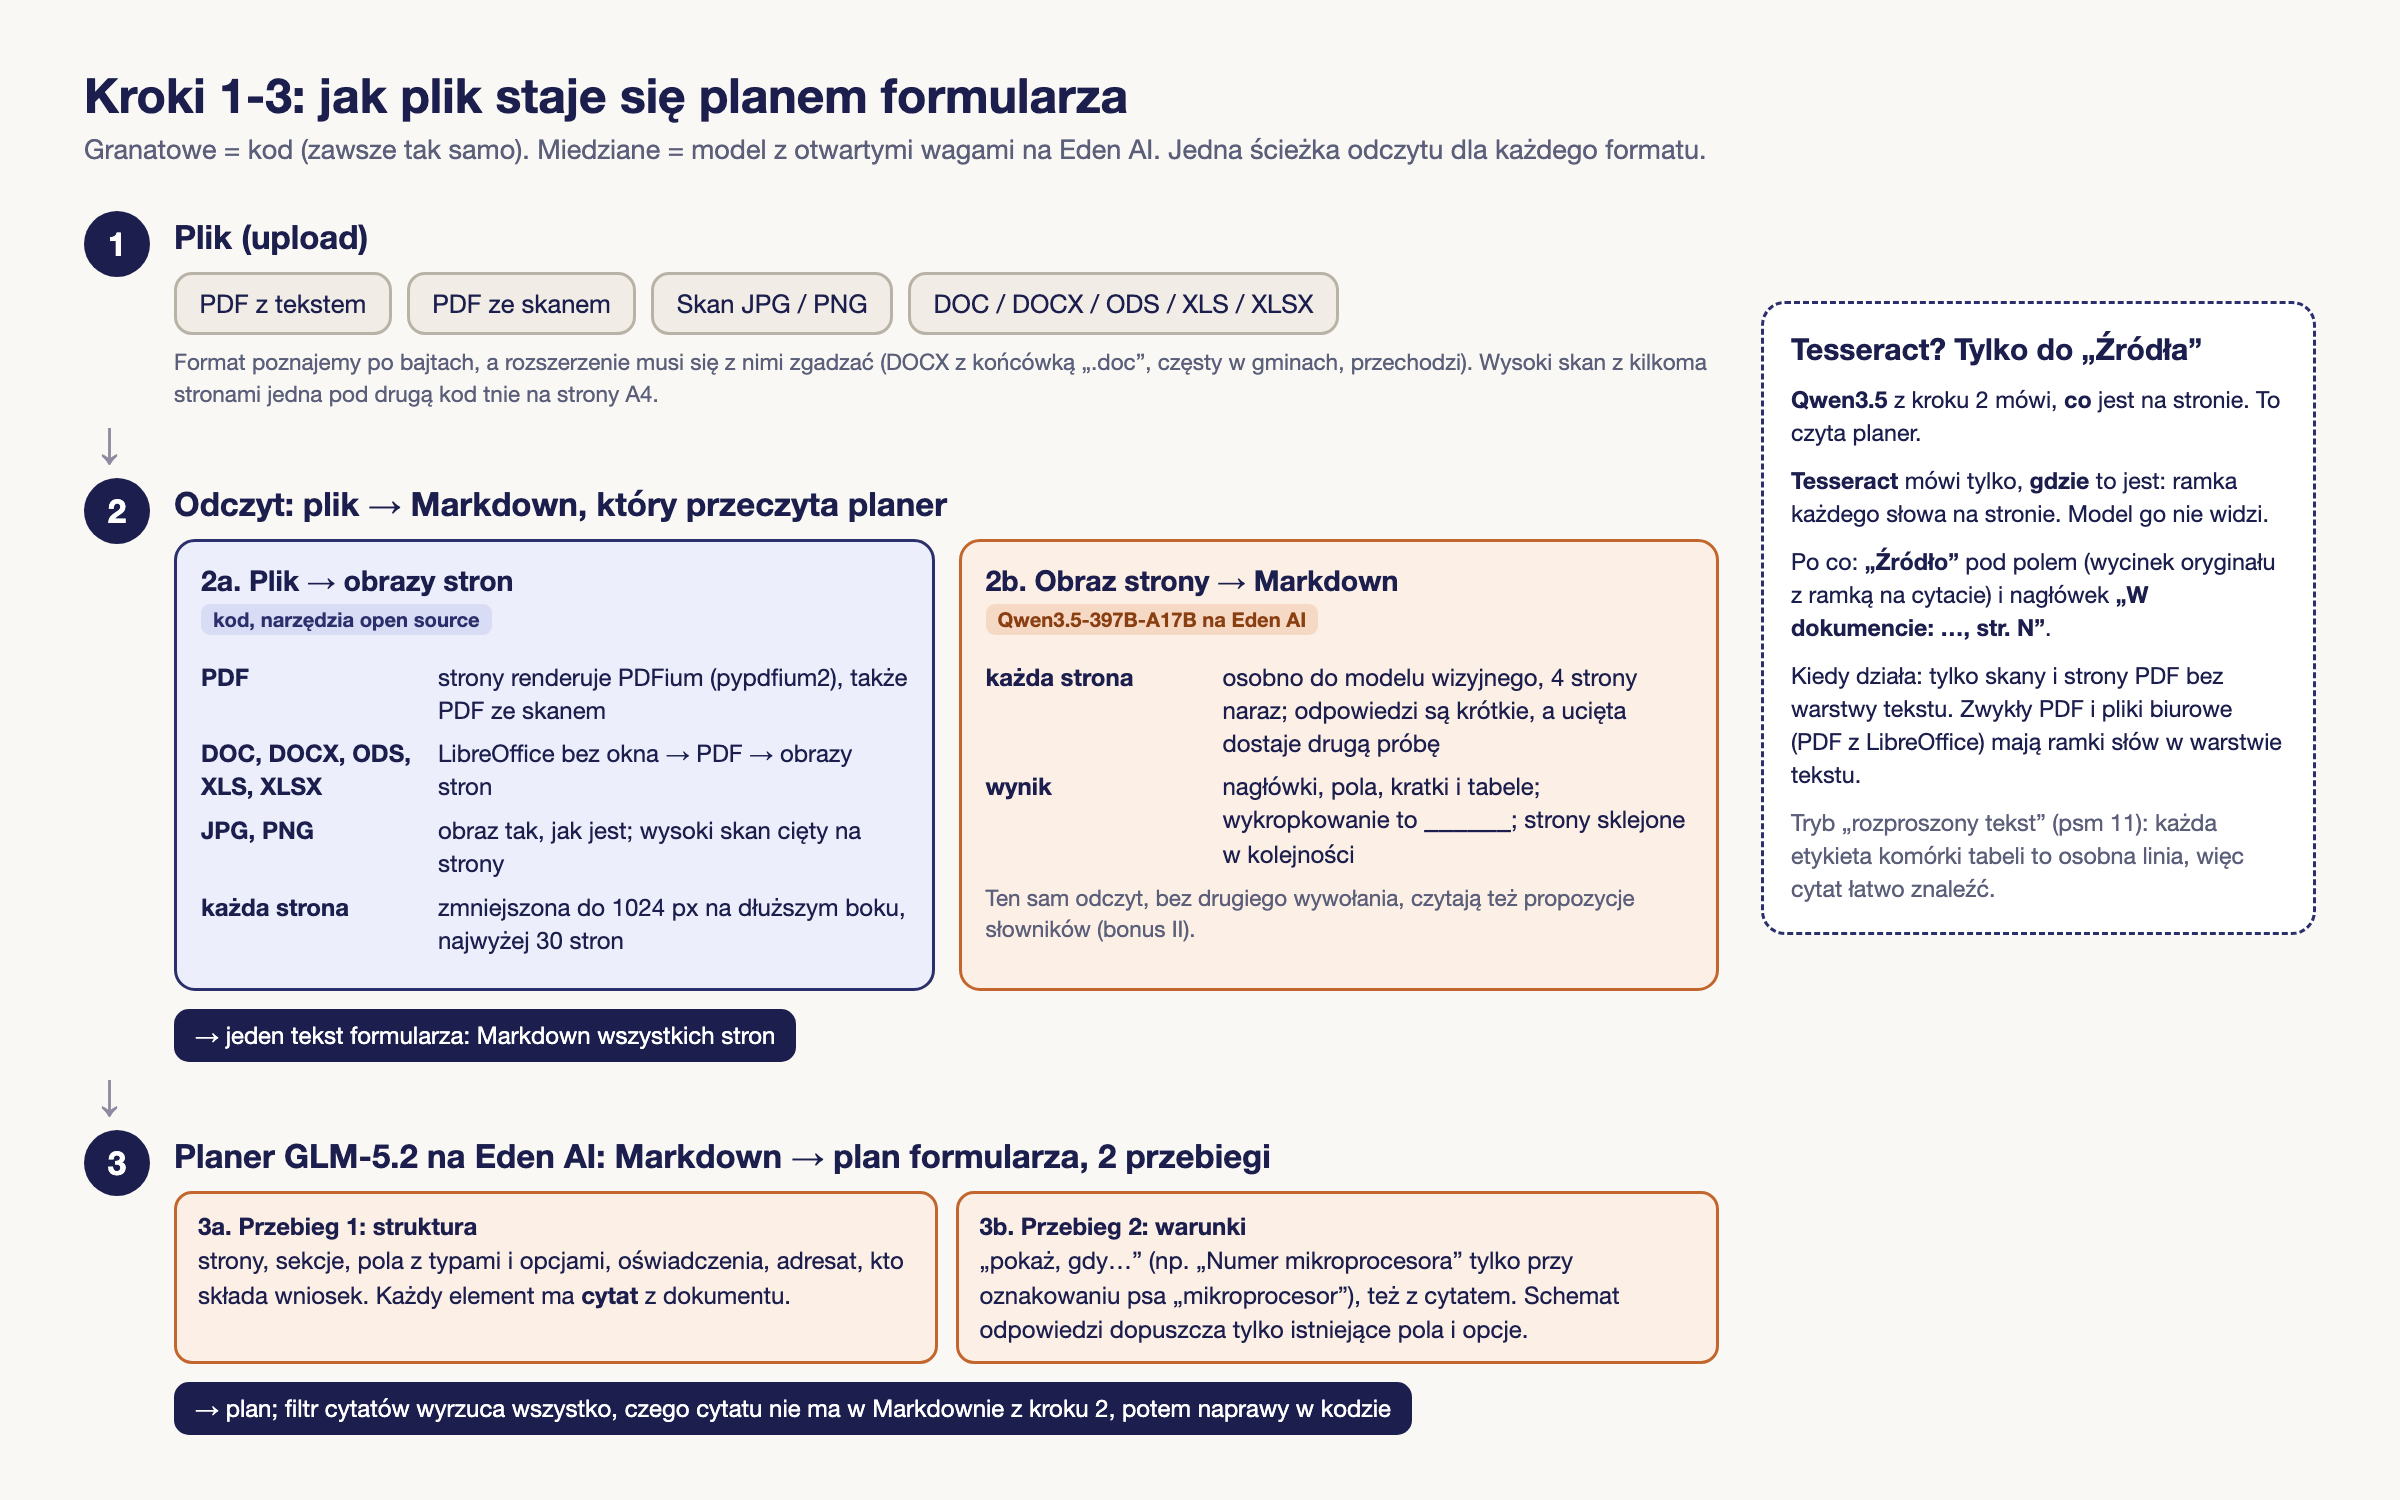
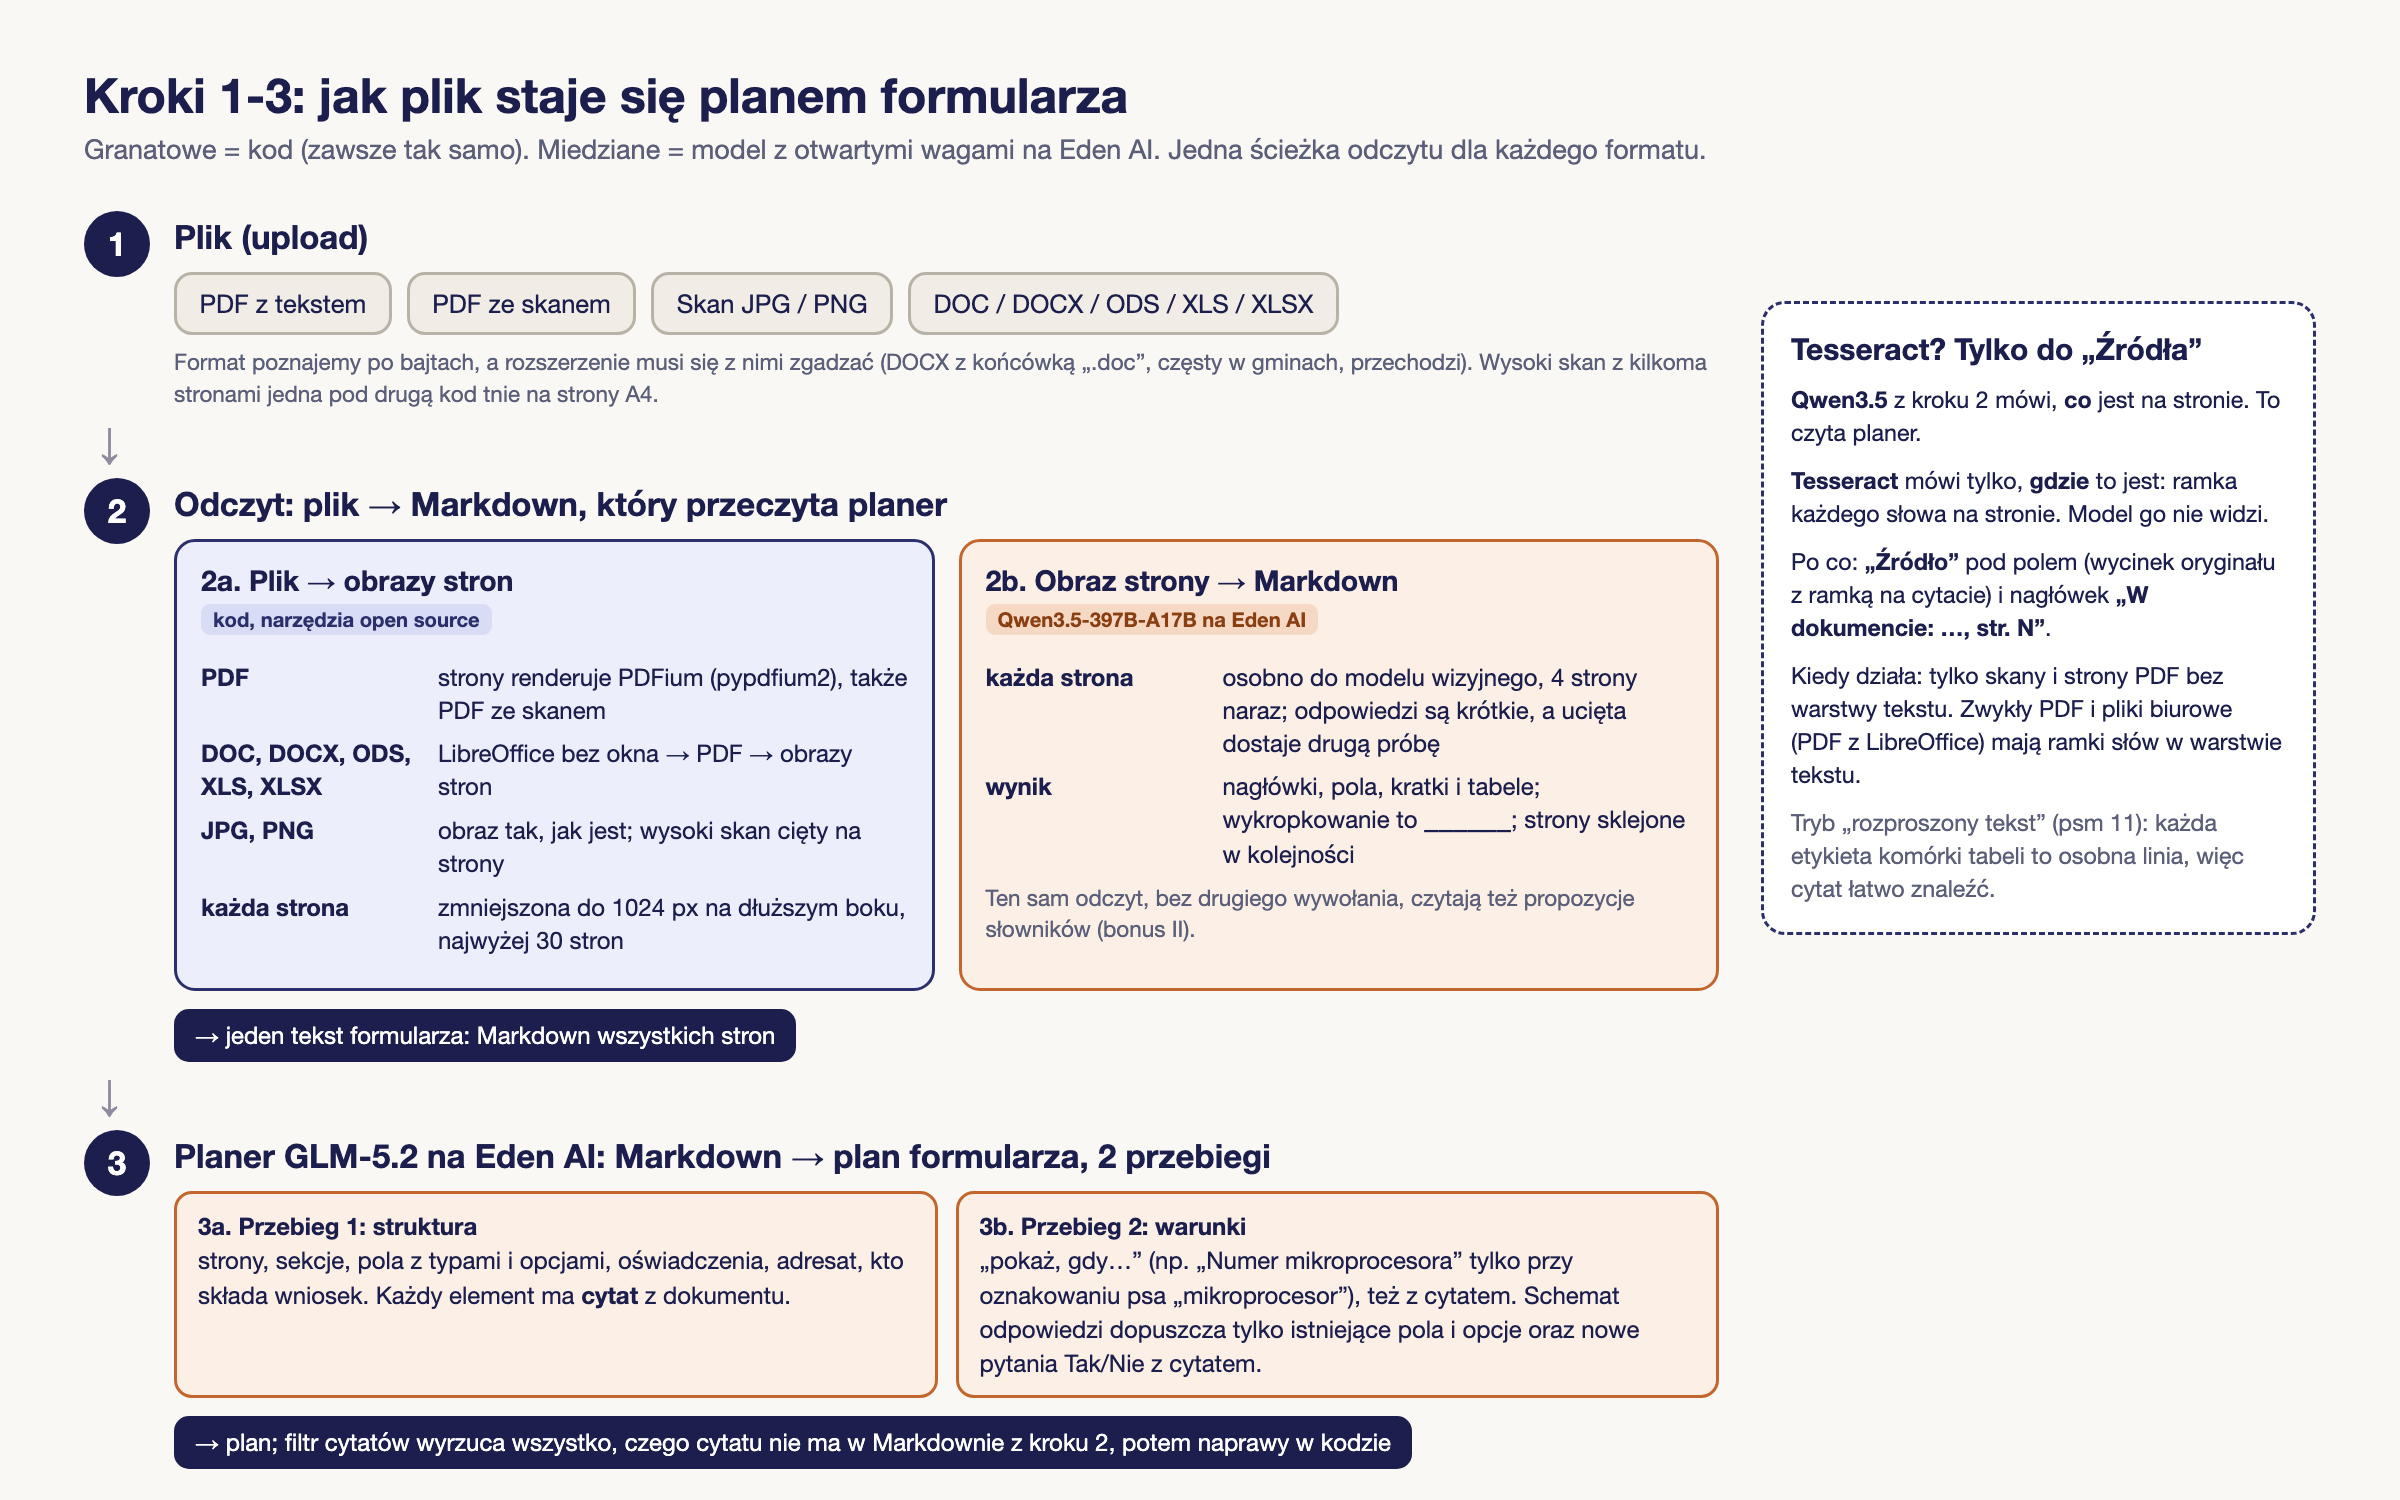
README council round 6: judge method as 3 bullets, 502/503/504 in separate rows (JWKS 503 on any protected route), A vs B on text PDFs as measured (tie on 3 and 8, +0.10 on 7), Eden tokens from the organizers without implying runtime approval, self-hosting untested in the task table; odczyt.png pass

Changed region(s): [[0.0625, 0.8893, 0.5938, 0.9813], [0.625, 0.8893, 0.6875, 0.92]]

diff --git a/docs/img/odczyt.html b/docs/img/odczyt.html
@@ -74,7 +74,7 @@
       <div class="title">Planer GLM-5.2 na Eden AI: Markdown → plan formularza, 2 przebiegi</div>
       <div class="pass">
         <div><b>3a. Przebieg 1: struktura</b><br>strony, sekcje, pola z typami i opcjami, oświadczenia, adresat, kto składa wniosek. Każdy element ma <b>cytat</b> z dokumentu.</div>
-        <div><b>3b. Przebieg 2: warunki</b><br>„pokaż, gdy…” (np. „Numer mikroprocesora” tylko przy oznakowaniu psa „mikroprocesor”), też z cytatem. Schemat odpowiedzi dopuszcza tylko istniejące pola i opcje.</div>
+        <div><b>3b. Przebieg 2: warunki</b><br>„pokaż, gdy…” (np. „Numer mikroprocesora” tylko przy oznakowaniu psa „mikroprocesor”), też z cytatem. Schemat odpowiedzi dopuszcza tylko istniejące pola i opcje oraz nowe pytania Tak/Nie z cytatem.</div>
       </div>
       <div class="out">→ plan; filtr cytatów wyrzuca wszystko, czego cytatu nie ma w Markdownie z kroku 2, potem naprawy w kodzie</div>
     </div></div>

diff --git a/README.md b/README.md
@@ -22,7 +22,10 @@ Mierzymy to, co obchodzi urzędnika: ile poprawek musi zrobić w edytorze, zanim
 | Czas i koszt | średnio **{{CZAS_FORMULARZ}}** i **{{KOSZT_FORMULARZ}}** na formularz (modele na Eden AI). Koszt rośnie ze stronami: jedno wywołanie odczytu na stronę i dwa przebiegi planera na formularz |
 | Kalibracja sędziów | {{KALIBRACJA}} (10 błędów podrzuconych do poprawnych JSON-ów) |
 
-**Jak liczymy poprawki.** Trzech sędziów AI dostaje strony oryginału i nasz JSON jako czytelny konspekt. Każdy osobno wypisuje poprawki, które urzędnik zrobiłby w edytorze: brakujące pole, zmyślone pole, zły typ, złe opcje, zły albo brakujący warunek, złe „wymagane”. Poprawka liczy się, gdy wypiszą ją co najmniej 2 z 3 sędziów. Sędziami są mocniejsze modele zamknięte, inne niż nasz planer i odczyt, więc nie oceniają samych siebie. Służą tylko do pomiaru i nie ma ich w produkcie (pkt 5 zadania pozwala używać takich modeli przy testowaniu). Samych sędziów sprawdziliśmy na 10 błędach, które celowo wstawiliśmy do poprawnych JSON-ów: ile z nich znaleźli i ile poprawek wymyślili ponad to, czego nie było w czystej wersji (wiersz „Kalibracja sędziów”). Przepis: `bench/JUDGE-POPRAWKI.md`.
+**Jak liczymy poprawki** (przepis: `bench/JUDGE-POPRAWKI.md`):
+- Trzech sędziów AI dostaje strony oryginału i nasz JSON jako czytelny konspekt. Każdy osobno wypisuje poprawki, które urzędnik zrobiłby w edytorze: brakujące pole, zmyślone pole, zły typ, złe opcje, zły albo brakujący warunek, złe „wymagane”. Poprawka liczy się, gdy wypiszą ją co najmniej 2 z 3 sędziów.
+- Sędziami są mocniejsze modele zamknięte, inne niż nasz planer i odczyt, więc nie oceniają samych siebie. Służą tylko do pomiaru i nie ma ich w produkcie (pkt 5 zadania pozwala używać takich modeli przy testowaniu).
+- Samych sędziów sprawdziliśmy na 10 błędach, które celowo wstawiliśmy do poprawnych JSON-ów: ile z nich znaleźli i ile poprawek wymyślili ponad to, czego nie było w czystej wersji (wiersz „Kalibracja sędziów”).
 
 ### Każdy formularz z zadania
 
@@ -91,7 +94,7 @@ Do tego:
 | 5. Formaty, MIME z zawartości, nazwa pliku, limit rozmiaru | wszystko z listy zadania plus `.xls` i `.jpe` | [Walidacja i limity](#walidacja-i-limity) |
 | 5. Tylko tymczasowe przetwarzanie | `convert` trzyma plik tylko w pamięci. Historia strony jest domyślnie włączona; `HISTORY_ENABLED=0` ją wyłącza, kosztem „Źródła” | [Przechowywanie plików](#przechowywanie-plików) |
 | 5. Docker, konfiguracja, README | Alpine, wersje przypięte, użytkownik bez uprawnień, sekrety tylko przy starcie | [Budowanie obrazu Docker](#budowanie-obrazu-docker), [Konfiguracja](#konfiguracja) |
-| 5. Python 3.14+, open source bez copyleft, bez zewnętrznych API i modeli dostępnych tylko przez API | GLM-5.2 (MIT) i Qwen3.5 (Apache-2.0) mają otwarte wagi. W czasie działania wołamy je przez Eden AI, czyli zewnętrzne API, do którego dostęp i tokeny dali organizatorzy zadania (pkt 7). Własny serwer z tymi wagami to zmiana konfiguracji | [Znane ograniczenia](#znane-ograniczenia), [Licencje](#licencje) |
+| 5. Python 3.14+, open source bez copyleft, bez zewnętrznych API i modeli dostępnych tylko przez API | GLM-5.2 (MIT) i Qwen3.5 (Apache-2.0) mają otwarte wagi. Na hackathonie wołamy je przez Eden AI, czyli zewnętrzne API, na tokenach od organizatorów zadania (pkt 7). Wdrożenie bez zewnętrznego API to własny serwer z tymi samymi wagami, ustawiany w konfiguracji (tej drogi nie testowaliśmy) | [Znane ograniczenia](#znane-ograniczenia), [Licencje](#licencje) |
 
 ## Architektura
 
@@ -100,7 +103,7 @@ Do tego:
 Model czyta dokument, a kod pilnuje formatu COI. Modele oddają tylko Markdown stron i plan formularza. Wszystko po nich to deterministyczny kod z testami. Kroki skleja `app/pipeline.py`, REST jest w `app/api.py`.
 
 Dlaczego tak:
-- **Jedna ścieżka odczytu dla każdego formatu.** Każdy plik staje się obrazami stron, a Qwen3.5 przepisuje każdą stronę do Markdown. Skan, PDF i Word idą tą samą drogą, bez osobnego kodu na skany. W pomiarze obrazy wyraźnie wygrały na skanach, a na PDF z warstwą tekstu wyszedł prawie remis ([historia](#jak-doszliśmy-do-tej-architektury)).
+- **Jedna ścieżka odczytu dla każdego formatu.** Każdy plik staje się obrazami stron, a Qwen3.5 przepisuje każdą stronę do Markdown. Skan, PDF i Word idą tą samą drogą, bez osobnego kodu na skany. W pomiarze obrazy wyraźnie wygrały na skanach, a na PDF z warstwą tekstu zysk był mniejszy (remis na formularzach 3 i 8, +0,10 na formularzu 7) ([historia](#jak-doszliśmy-do-tej-architektury)).
 - **Każde pole, warunek i oświadczenie planu niesie cytat z dokumentu.** Kod wyrzuca te, których cytatu nie ma w odczytanym tekście, i opcje, których nie ma w dokumencie, więc model nie doda pola, którego na papierze nie ma. Ten sam cytat urzędnik widzi pod polem, a „Źródło” pokazuje go w oryginale.
 - **JSON COI pisze kod, nie model.** UUID, `techName`, siatkę, warunki JSONata, walidatory, słowniki i strony ze Standardów COI (Dane, Kontakt i zgody, strona końcowa) builder składa z gotowych klocków. Dlatego struktura zgadza się ze schematem COI, a reguły COI i tak sprawdzamy jeszcze raz przed odpowiedzią.
 - **Dwa przebiegi planera.** Najpierw struktura (strony, sekcje, pola, opcje, oświadczenia), potem warunki. W drugim przebiegu schemat odpowiedzi dopuszcza tylko istniejące pola i opcje oraz nowe pytania Tak/Nie z cytatem; pytanie, którego żaden warunek nie używa, kod wyrzuca.
@@ -254,7 +257,9 @@ Każdy błąd to JSON z polem `detail`, zwykle `{"detail": "opis po polsku"}`.
 | 422 | nie udało się odczytać formularza albo wynik łamałby reguły COI |
 | 429 | 20 zadań w tle już w toku |
 | 500 | nieoczekiwany błąd serwera (szczegóły tylko w logu) |
-| 502 / 503 / 504 | model zwrócił błąd / jest niedostępny albo brak `EDENAI_API_KEY` / nie odpowiedział na czas. 503 także z `/api/auth/token`, gdy logowanie lokalne jest wyłączone (brak `AUTH_PASSWORD` albo tokeny wydaje `JWT_JWKS_URL`), i gdy serwer tożsamości z `JWT_JWKS_URL` nie odpowiada |
+| 502 | model zwrócił błąd |
+| 503 | model jest niedostępny albo brak `EDENAI_API_KEY`; `/api/auth/token`, gdy logowanie lokalne jest wyłączone (brak `AUTH_PASSWORD` albo tokeny wydaje `JWT_JWKS_URL`); każda chroniona trasa, gdy serwer tożsamości z `JWT_JWKS_URL` nie odpowiada |
+| 504 | model nie odpowiedział na czas |
 
 ## Walidacja i limity
 
@@ -275,7 +280,7 @@ Każdy błąd to JSON z polem `detail`, zwykle `{"detail": "opis po polsku"}`.
 
 Każdy krok rozstrzygnął pomiar na formularzach COI z zadania. Miarą była `gold=`: zgodność planu z naszym wzorcem formularza (1,0 = jak wzorzec), szybsza i tańsza niż poprawki liczone przez sędziów w „Wynikach”.
 1. **Lokalny model był za słaby.** Zaczęliśmy od qwen3 30B na laptopie. Działał od pliku do JSON-a, ale mocniejszy model zamknięty na tym samym tekście i promptach (tylko pomiar, nie produkt) pokazał, że wąskim gardłem jest model, nie odczyt ani kod. Ten model pomagał też pisać wzorce, więc jego wynik jest raczej zawyżony, ale różnica była duża.
-2. **Obrazy stron zamiast tekstu.** Na Eden AI porównaliśmy tekst z naszej ekstrakcji i Tesseracta z obrazami stron przepisanymi przez Qwen3.5. Na skanach obrazy wyraźnie wygrały, na PDF z warstwą tekstu wyszedł prawie remis, więc zostały jedyną ścieżką: jedna droga dla każdego formatu.
+2. **Obrazy stron zamiast tekstu.** Na Eden AI porównaliśmy tekst z naszej ekstrakcji i Tesseracta z obrazami stron przepisanymi przez Qwen3.5. Na skanach obrazy wyraźnie wygrały, na PDF z warstwą tekstu zysk był mniejszy, więc zostały jedyną ścieżką: jedna droga dla każdego formatu.
 3. **GLM-5.2 jako planer.** Na tym samym Markdownie formularza 3 w trzech formatach porównaliśmy cztery modele. GLM-5.2 dał najlepszy plan, 10 razy szybciej niż Qwen3.5 w tej roli i za podobne pieniądze.
 4. **Potem pętla jakości.** Każdą zmianę promptu albo kodu po modelu mierzyliśmy, zanim weszła: najpierw zgodnością z naszym wzorcem (`gold=`), w końcowej fazie także liczbą poprawek urzędnika. Problemów z regułami COI nie mogło przybyć.
 
@@ -296,7 +301,7 @@ Tabele, czasy, koszty i odrzucone pomysły są w [docs/historia.md](docs/histori
 
 - Najsłabsze są warunki na długich formularzach (np. 16-stronicowy wniosek „3 w 1”). Model znajduje część zależności, resztę urzędnik ustawia w panelu „Edycja” wyborem „pokaż, gdy…”.
 - Ten sam plik wysłany dwa razy może dać trochę inny szkic, bo modele nie są powtarzalne co do bitu.
-- Modele działają na Eden AI, czyli przez zewnętrzne API, do którego dostęp dali organizatorzy zadania. Wagi są otwarte, więc te same modele można postawić na własnym serwerze z API zgodnym z OpenAI: adres w `LLM_BASE_URL`, nazwy w `LLM_MODEL` i `TRANSCRIBE_MODEL`, klucz tego serwera w `EDENAI_API_KEY`. Tej drogi nie testowaliśmy, a oba modele są duże, więc potrzebują serwera z kilkoma GPU.
+- Modele działają na Eden AI, czyli przez zewnętrzne API, na tokenach od organizatorów zadania. Wagi są otwarte, więc te same modele można postawić na własnym serwerze z API zgodnym z OpenAI: adres w `LLM_BASE_URL`, nazwy w `LLM_MODEL` i `TRANSCRIBE_MODEL`, klucz tego serwera w `EDENAI_API_KEY`. Tej drogi nie testowaliśmy, a oba modele są duże, więc potrzebują serwera z kilkoma GPU.
 - Formularz dłuższy niż 30 stron jest czytany do 30. strony.
 - Gdy model odda w przebiegu warunków odpowiedź, której nie da się użyć, formularz wychodzi bez warunków (API odpowiada 200), a urzędnik dodaje je w edytorze.
 - Zadania w tle i odczyty stron żyją w pamięci jednego procesu, więc usługa działa jako jedna instancja. Kilka instancji za load balancerem wymagałoby wspólnej kolejki zadań.
